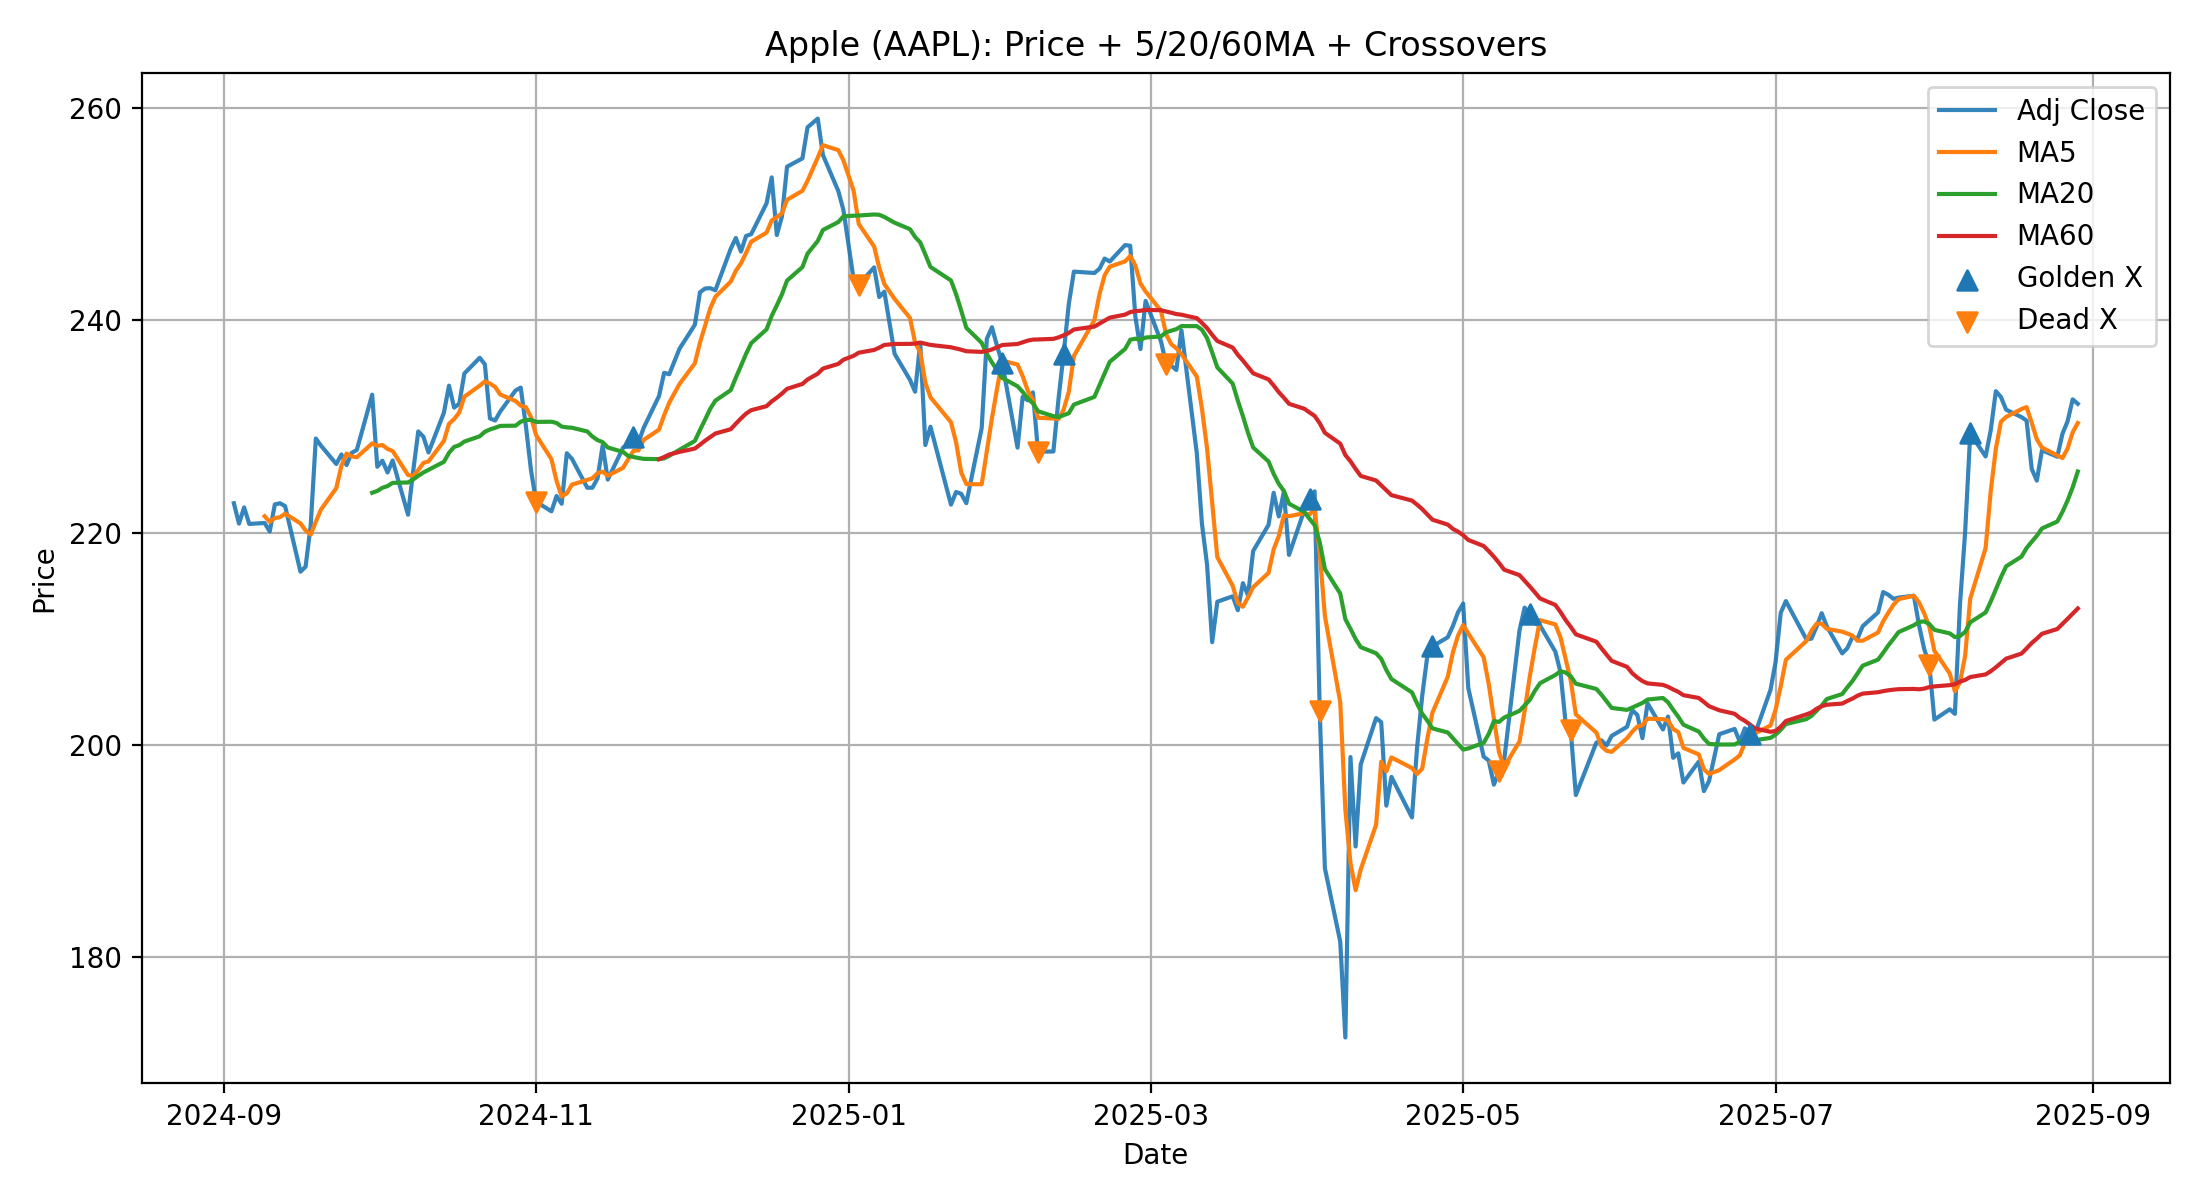
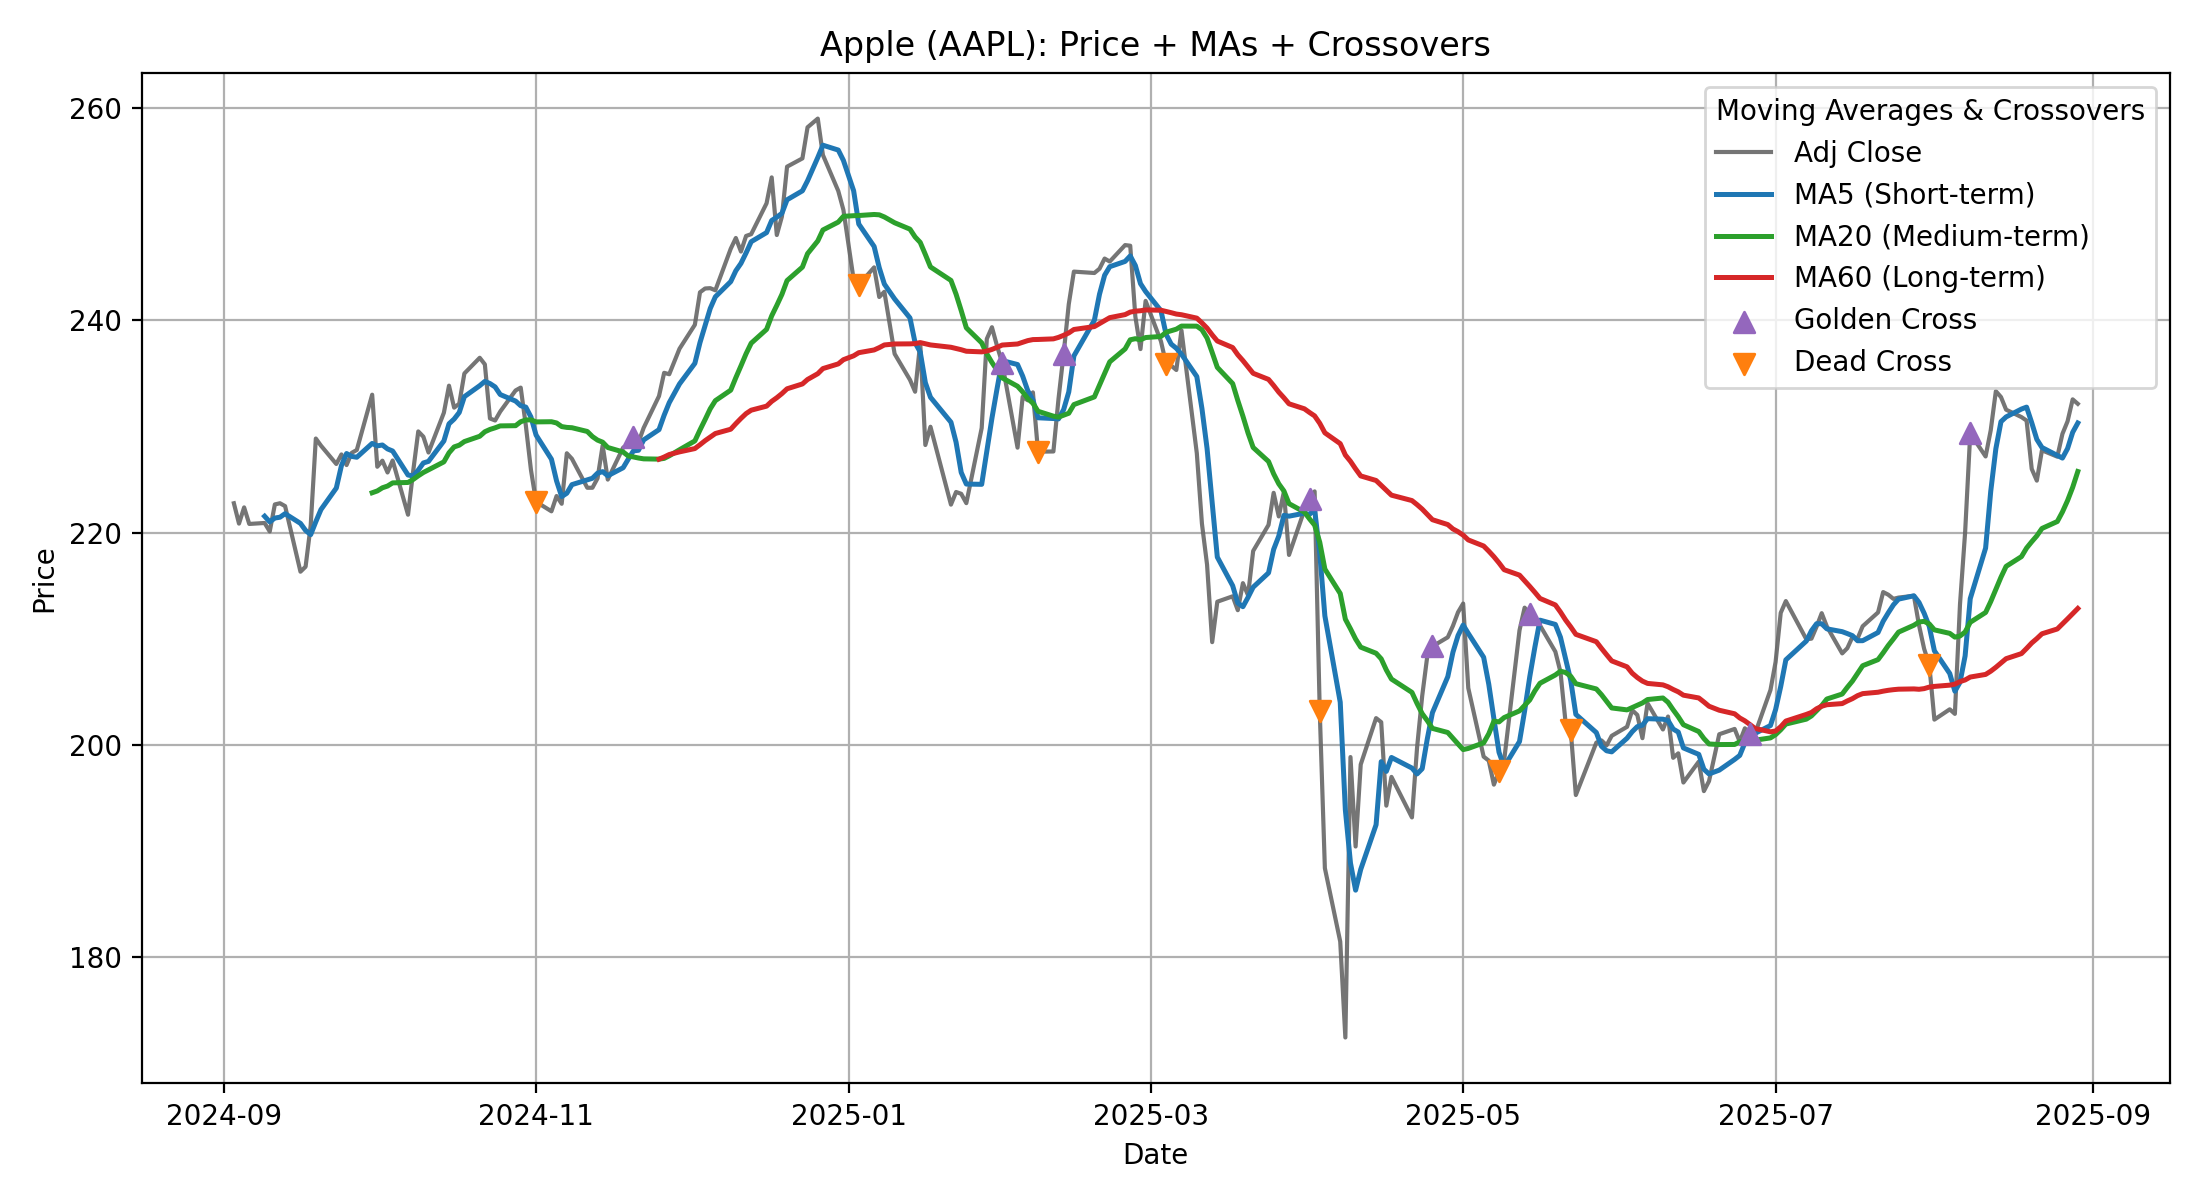
update. code & figs

diff --git a/황정현HW1.py b/황정현HW1.py
@@ -1,36 +1,28 @@
-# 허용 패키지: numpy, pandas, matplotlib, seaborn(옵션), mplfinance(옵션), SciPy, 표준라이브러리
 import os
 import numpy as np
 import pandas as pd
 import matplotlib.pyplot as plt
 from scipy import stats
 
-# 캔들차트
 try:
     import mplfinance as mpf
     HAS_MPLFINANCE = True
 except Exception:
     HAS_MPLFINANCE = False
 
-# === 경로 설정 ===
-SP500_CSV = "data/S&P 500 Historical Data.csv"      # Investing.com S&P 500
-AAPL_CSV  = "data/Apple Stock Price History.csv"     # Investing.com AAPL
+SP500_CSV = "data/S&P 500 Historical Data.csv"      
+AAPL_CSV  = "data/Apple Stock Price History.csv"    
 OUT_DIR   = "figs"
-SHOW_FIGS = True   # 창으로도 보고 싶으면 True
+SHOW_FIGS = True
 os.makedirs(OUT_DIR, exist_ok=True)
 
-# === Investing.com CSV 로더 ===
 def load_investing_csv(path):
-    # CSV 읽기
     df = pd.read_csv(path, encoding="utf-8-sig")
-
-    # Date 파싱 및 정렬
     if "Date" not in df.columns:
         raise ValueError(f"'Date' column not found in {path}")
     df["Date"] = pd.to_datetime(df["Date"], errors="coerce")
     df = df.dropna(subset=["Date"]).sort_values("Date").set_index("Date")
 
-    # Price → Adj Close (숫자화)
     if "Price" not in df.columns:
         raise ValueError(f"'Price' column not found in {path}")
     df["Price"] = (df["Price"].astype(str)
@@ -38,13 +30,11 @@ def load_investing_csv(path):
                              .str.replace("%", "", regex=False))
     df["Adj Close"] = pd.to_numeric(df["Price"], errors="coerce")
 
-    # O/H/L/Close 숫자화(있으면)
     for col in ["Open", "High", "Low", "Close"]:
         if col in df.columns:
             s = df[col].astype(str).str.replace(",", "", regex=False).str.replace("%", "", regex=False)
             df[col] = pd.to_numeric(s, errors="coerce")
 
-    # 거래량 'K','M','B' 처리(있으면)
     if "Vol." in df.columns:
         v = df["Vol."].astype(str).str.replace(",", "", regex=False).str.upper()
         mult = np.where(v.str.endswith("K"), 1e3,
@@ -56,28 +46,22 @@ def load_investing_csv(path):
                               errors="coerce")
         df["Volume"] = v_num * mult
 
-    # 결측 제거
     df = df.dropna(subset=["Adj Close"])
-
-    # === 캔들차트 호환: Close가 없으면 Adj Close로 대체 ===
     if "Close" not in df.columns and "Adj Close" in df.columns:
         df["Close"] = df["Adj Close"]
-
     return df
 
-# === 피처 추가 ===
 def add_features(df):
     px = df["Adj Close"]
     df["MA5"]  = px.rolling(5).mean()
     df["MA20"] = px.rolling(20).mean()
     df["MA60"] = px.rolling(60).mean()
     df["Ret"]  = px.pct_change()
-    df["Vol20"] = df["Ret"].rolling(20).std() * np.sqrt(252)  # 연율화 변동성(근사)
+    df["Vol20"] = df["Ret"].rolling(20).std() * np.sqrt(252)  
     cummax = px.cummax()
     df["Drawdown"] = px / cummax - 1.0
     return df
 
-# === 크로스오버 ===
 def find_crossovers(df, s="MA5", m="MA20"):
     prev = df[s].shift(1) - df[m].shift(1)
     now  = df[s] - df[m]
@@ -85,13 +69,11 @@ def find_crossovers(df, s="MA5", m="MA20"):
     dead   = df.index[(prev > 0) & (now < 0)]
     return golden, dead
 
-# === 베타/상관 ===
 def beta_and_corr(spx_ret, aapl_ret):
     ret = pd.concat([spx_ret.rename("SPX"), aapl_ret.rename("AAPL")], axis=1).dropna()
     slope, intercept, r, p, se = stats.linregress(ret["SPX"].values, ret["AAPL"].values)
     return slope, intercept, r, p, ret
 
-# === MA 기울기(최근 구간) ===
 def ma_slope(series, lookback=60):
     s = series.dropna().tail(lookback)
     if len(s) < 2:
@@ -100,29 +82,37 @@ def ma_slope(series, lookback=60):
     m, b = np.polyfit(x, s.values, 1)
     return m
 
-# === 시각화 ===
 def plot_price_ma(df, title, fname):
     plt.figure(figsize=(11,6))
-    plt.plot(df.index, df["Adj Close"], label="Adj Close", alpha=0.9)
-    plt.plot(df.index, df["MA5"],  label="MA5",  linewidth=1.5)
-    plt.plot(df.index, df["MA20"], label="MA20", linewidth=1.5)
-    plt.plot(df.index, df["MA60"], label="MA60", linewidth=1.5)
+
+    plt.plot(df.index, df["Adj Close"], color="#666666", label="Adj Close", alpha=0.9)
+    plt.plot(df.index, df["MA5"],  label="MA5 (Short-term)",  linewidth=1.8, color="tab:blue")
+    plt.plot(df.index, df["MA20"], label="MA20 (Medium-term)", linewidth=1.8, color="tab:green")
+    plt.plot(df.index, df["MA60"], label="MA60 (Long-term)", linewidth=1.8, color="tab:red")
+
     golden, dead = find_crossovers(df)
-    plt.scatter(golden, df.loc[golden, "Adj Close"], marker="^", s=50, label="Golden X", zorder=3)
-    plt.scatter(dead,   df.loc[dead,   "Adj Close"], marker="v", s=50, label="Dead X",   zorder=3)
-    plt.title(title); plt.xlabel("Date"); plt.ylabel("Price")
-    plt.legend(); plt.grid(True); plt.tight_layout()
+    plt.scatter(golden, df.loc[golden, "Adj Close"], marker="^", s=55,
+                label="Golden Cross", color="tab:purple", zorder=3)
+    plt.scatter(dead,   df.loc[dead,   "Adj Close"], marker="v", s=55,
+                label="Dead Cross",   color="tab:orange", zorder=3)
+
+    plt.title(title)
+    plt.xlabel("Date"); plt.ylabel("Price")
+    leg = plt.legend(title="Moving Averages & Crossovers")
+    if leg: leg._legend_box.align = "left"
+    plt.grid(True); plt.tight_layout()
     plt.savefig(os.path.join(OUT_DIR, fname), dpi=200)
     if SHOW_FIGS: plt.show()
     plt.close()
 
-def plot_beta(ret, beta, intercept, fname):
+def plot_beta(ret, beta, intercept, r, fname):
     plt.figure(figsize=(7,6))
     plt.scatter(ret["SPX"], ret["AAPL"], s=8, alpha=0.6, label="Daily returns")
     xline = np.linspace(ret["SPX"].min(), ret["SPX"].max(), 200)
     yline = intercept + beta * xline
     plt.plot(xline, yline, label=f"AAPL = {intercept:.4f} + {beta:.2f}·SPX")
-    plt.title("AAPL vs. SPX Daily Returns (β)")
+    plt.scatter([], [], label=f"corr r = {r:.2f}")
+    plt.title("AAPL vs. SPX Daily Returns (Beta)")
     plt.xlabel("SPX daily return"); plt.ylabel("AAPL daily return")
     plt.legend(); plt.grid(True); plt.tight_layout()
     plt.savefig(os.path.join(OUT_DIR, fname), dpi=200)
@@ -131,11 +121,22 @@ def plot_beta(ret, beta, intercept, fname):
 
 def plot_drawdown_vol(df, title, fname):
     fig, ax1 = plt.subplots(figsize=(11,6))
-    ax1.plot(df.index, df["Drawdown"], label="Drawdown", alpha=0.9)
-    ax1.set_ylabel("Drawdown"); ax1.axhline(0, linewidth=0.8)
+    c1, c2 = "tab:blue", "tab:orange"
+
+    l1, = ax1.plot(df.index, df["Drawdown"], color=c1, label="Drawdown", alpha=0.9)
+    ax1.set_ylabel("Drawdown", color=c1)
+    ax1.tick_params(axis="y", labelcolor=c1)
+    ax1.axhline(0, color=c1, linewidth=0.8, alpha=0.6)
+
     ax2 = ax1.twinx()
-    ax2.plot(df.index, df["Vol20"], label="Vol20 (annualized)", alpha=0.7)
-    ax2.set_ylabel("Volatility")
+    l2, = ax2.plot(df.index, df["Vol20"], color=c2, label="Volatility (20d, annualized)", alpha=0.9)
+    ax2.set_ylabel("Volatility", color=c2)
+    ax2.tick_params(axis="y", labelcolor=c2)
+
+    lines = [l1, l2]
+    labels = [ln.get_label() for ln in lines]
+    ax1.legend(lines, labels, loc="upper right")
+
     fig.suptitle(title)
     ax1.grid(True); fig.tight_layout()
     fig.savefig(os.path.join(OUT_DIR, fname), dpi=200)
@@ -143,35 +144,42 @@ def plot_drawdown_vol(df, title, fname):
     plt.close(fig)
 
 def maybe_candle_chart(df, title, fname):
-    """OHLC가 충분하면 캔들차트 저장 후 True, 아니면 False 반환"""
     if not HAS_MPLFINANCE:
         return False
     needed = {"Open","High","Low","Close"}
     if not needed.issubset(df.columns):
         return False
 
-    # OHLC 프레임(숫자/결측 정리)
-    c = df[["Open","High","Low","Close"]].copy()
-    c = c.apply(pd.to_numeric, errors="coerce").dropna()
+    c = df[["Open","High","Low","Close"]].apply(pd.to_numeric, errors="coerce").dropna()
     if c.empty:
         return False
 
-    # 유효값(비-NaN)이 1개 이상 있는 MA만 추가 (빈 시리즈 방어)
     ap = []
-    for ma_col, color in [("MA5","b"), ("MA20","g"), ("MA60","r")]:
+    for ma_col, color in [("MA5","tab:blue"), ("MA20","tab:green"), ("MA60","tab:red")]:
         if ma_col in df.columns:
             s = df[ma_col].reindex(c.index)
             if s.notna().sum() > 0:
-                ap.append(mpf.make_addplot(s, color=color))
+                ap.append(mpf.make_addplot(s, color=color, width=1.2))
 
     save_path = os.path.join(OUT_DIR, fname)
-    if SHOW_FIGS:
-        mpf.plot(c, type="candle", addplot=ap, title=title, style="yahoo",
-                 savefig=save_path)
-    else:
-        fig, _ = mpf.plot(c, type="candle", addplot=ap, title=title, style="yahoo",
-                          savefig=save_path, returnfig=True)
-        plt.close(fig)
+    fig, axlist = mpf.plot(
+        c, type="candle", addplot=ap, title=title, style="yahoo",
+        returnfig=True, savefig=save_path
+    )
+
+    ax = axlist[0]
+
+    ax.plot([], [], color="green", label="Bullish candle")
+    ax.plot([], [], color="red",   label="Bearish candle")
+
+    ax.plot([], [], color="tab:blue",  label="MA5 (Short-term)")
+    ax.plot([], [], color="tab:green", label="MA20 (Medium-term)")
+    ax.plot([], [], color="tab:red",   label="MA60 (Long-term)")
+
+    ax.legend(loc="upper left", frameon=True, title="Legend")
+
+    if SHOW_FIGS: plt.show()
+    plt.close(fig)
     return True
 
 def main():
@@ -180,7 +188,6 @@ def main():
 
     beta, intercept, r, p, ret = beta_and_corr(spx["Ret"], aapl["Ret"])
 
-    # 지표 계산
     spx_g, spx_d = find_crossovers(spx)
     a_g, a_d = find_crossovers(aapl)
     metrics = {
@@ -195,17 +202,15 @@ def main():
         "AAPL MaxDD": round(aapl["Drawdown"].min(), 3),
     }
 
-    # 시각화
-    plot_price_ma(spx,  "S&P 500: Price + 5/20/60MA + Crossovers", "spx_ma.png")
-    plot_price_ma(aapl, "Apple (AAPL): Price + 5/20/60MA + Crossovers", "aapl_ma.png")
-    plot_beta(ret, beta, intercept, "beta_scatter.png")
-    plot_drawdown_vol(spx,  "S&P 500: Drawdown & 20d Vol", "spx_dd_vol.png")
-    plot_drawdown_vol(aapl, "Apple: Drawdown & 20d Vol",   "aapl_dd_vol.png")
+    plot_price_ma(spx,  "S&P 500: Price + MAs + Crossovers", "spx_ma.png")
+    plot_price_ma(aapl, "Apple (AAPL): Price + MAs + Crossovers", "aapl_ma.png")
+    plot_beta(ret, beta, intercept, r, "beta_scatter.png")
+    plot_drawdown_vol(spx,  "S&P 500: Drawdown & 20d Volatility", "spx_dd_vol.png")
+    plot_drawdown_vol(aapl, "Apple: Drawdown & 20d Volatility",   "aapl_dd_vol.png")
 
     spx_candle_ok  = maybe_candle_chart(spx,  "S&P 500 Candlestick (with MAs)", "spx_candle.png")
-    aapl_candle_ok = maybe_candle_chart(aapl, "AAPL Candlestick (with MAs)",    "aapl_candle.png")
+    aapl_candle_ok = maybe_candle_chart(aapl, "Apple Candlestick (with MAs)",    "aapl_candle.png")
 
-    # 요약 저장
     lines = [
         "=== Summary (S&P 500 + Apple) ===",
         f"Period: {metrics['Period']}",
@@ -223,8 +228,7 @@ def main():
 
     pd.DataFrame([metrics]).to_csv(os.path.join(OUT_DIR, "summary_table.csv"), index=False)
 
-    # 실제 저장된 파일 목록 표시
-    saved = ["spx_ma.png", "aapl_ma.png", "beta_scatter.png", "spx_dd_vol.png", "aapl_dd_vol.png"]
+    saved = ["spx_ma.png", "aapl_ma.png", "beta_scatter.png", "spx_dd_vol.png", "aapl_dd_vol.png", "aapl_candle.png", "spx_candle.png"]
     if spx_candle_ok:  saved.append("spx_candle.png")
     if aapl_candle_ok: saved.append("aapl_candle.png")
 
